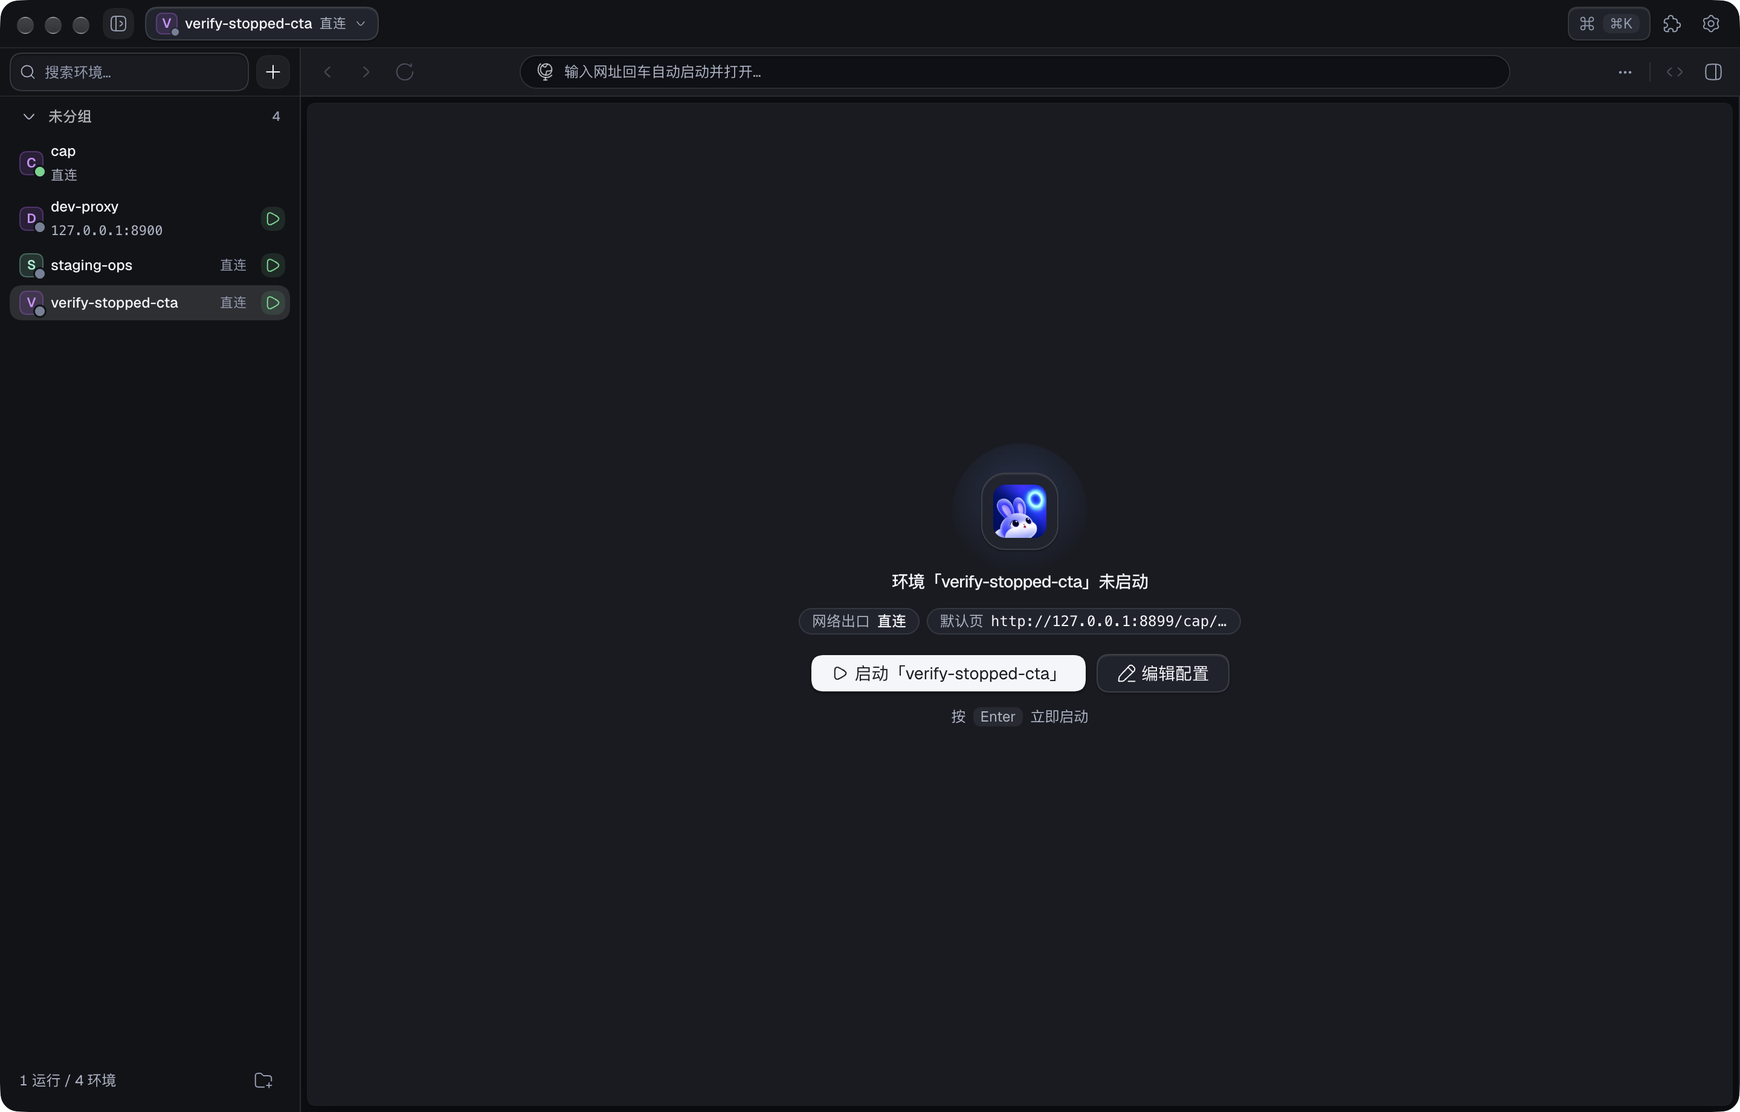
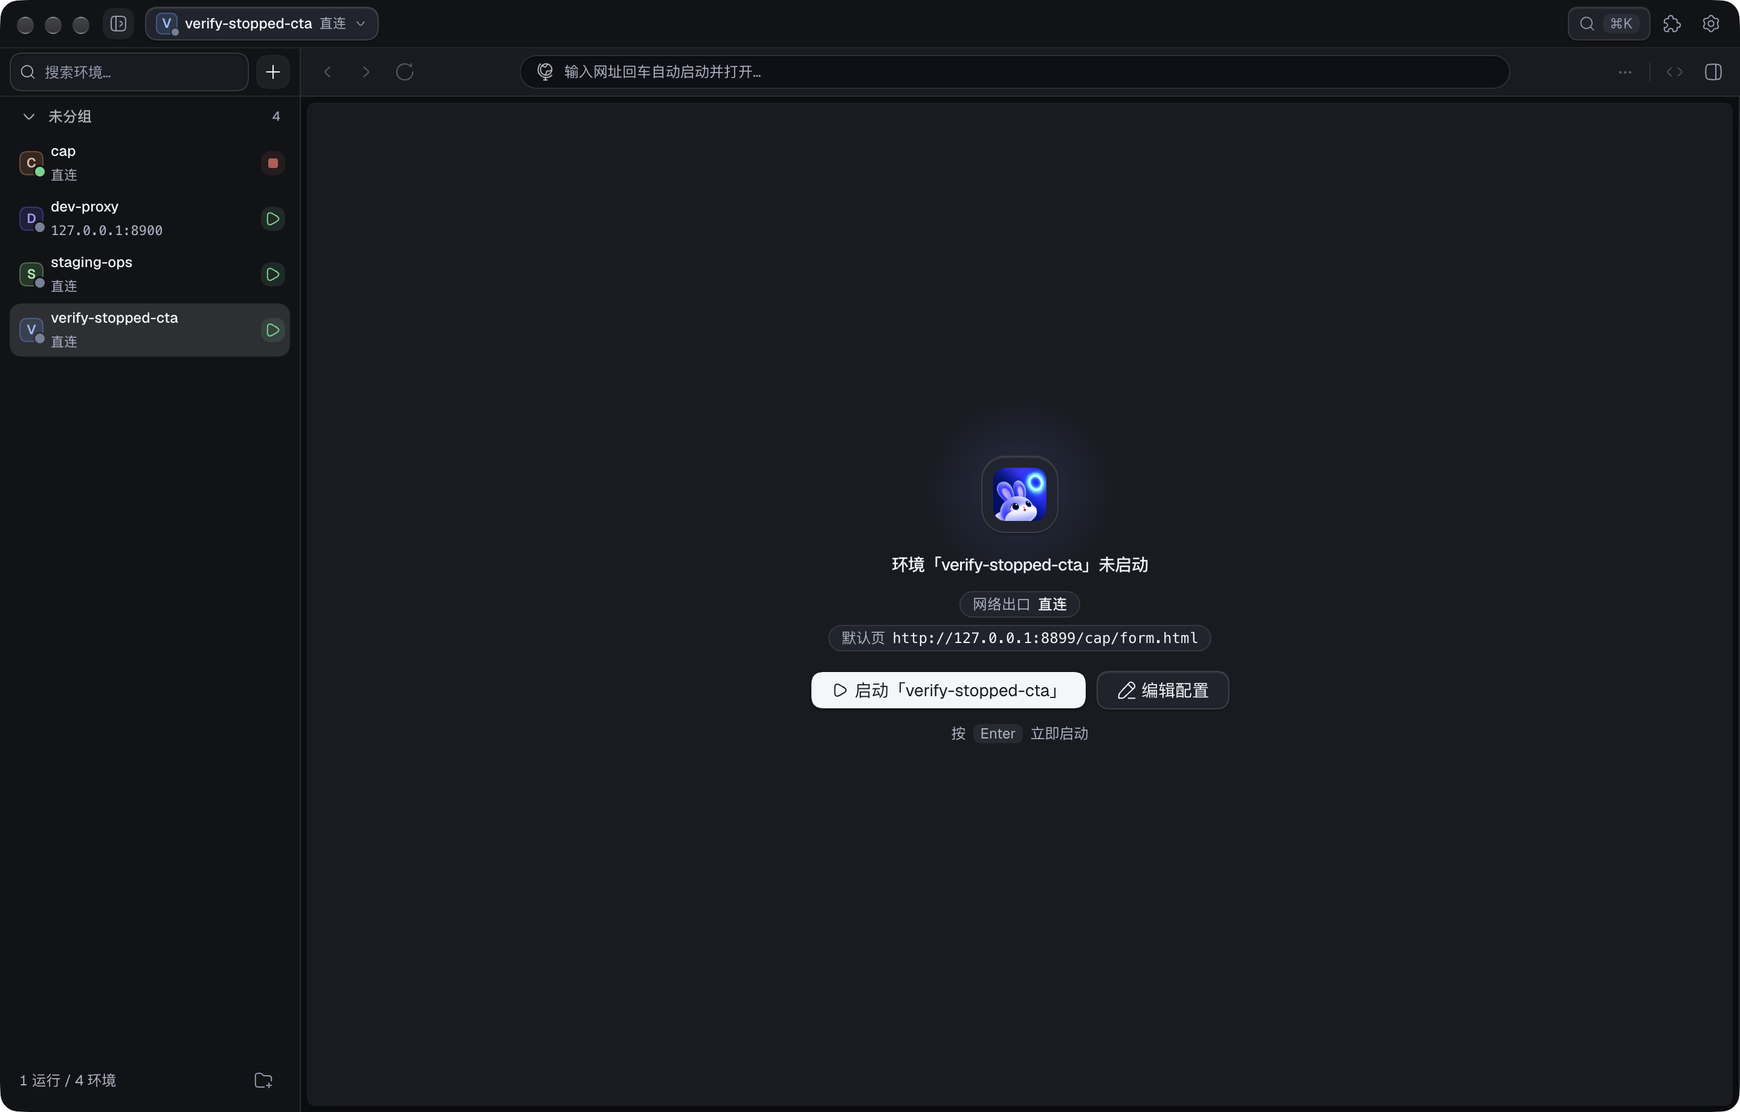
docs(verification): update 16-state honest captures, final P1 polish, and HANDOFF summary

Changed region(s): [[0.4688, 0.4027, 0.7188, 0.6815], [0.0, 0.2168, 0.1875, 0.3408]]

diff --git a/src/renderer/features/environments/environment-inspector.tsx b/src/renderer/features/environments/environment-inspector.tsx
@@ -47,16 +47,54 @@ const actorText: Record<string, string> = {
 
 function formatEventSummary(message: string): string {
   const trimmed = message.trim();
-  const gotoMatch = trimmed.match(/^human\s+goto\s+(.+)$/i);
+  const gotoMatch = trimmed.match(/^human\s+goto\s+(\S+)(?:\s+on\s+\S+)?$/i);
   if (gotoMatch) return `访问 ${gotoMatch[1]}`;
-  if (trimmed.startsWith('设置更新')) {
+  if (trimmed.includes('设置更新')) {
     const themeMatch = trimmed.match(/"theme"\s*:\s*"(dark|light|system)"/);
     if (themeMatch) {
       const label = themeMatch[1] === 'dark' ? '深色' : themeMatch[1] === 'light' ? '浅色' : '跟随系统';
       return `切换外观主题为「${label}」`;
     }
+    const dockMatch = trimmed.match(/"devToolsDock"\s*:\s*"(right|bottom|detach)"/);
+    if (dockMatch) {
+      const dockLabel = dockMatch[1] === 'bottom' ? '底部停靠' : dockMatch[1] === 'detach' ? '独立窗口' : '右侧停靠';
+      return `切换 DevTools 为${dockLabel}`;
+    }
     return '更新应用设置';
   }
+  const humanAcquire = trimmed.match(/^human\s+acquired\s+(\S+)/i);
+  if (humanAcquire) return `人工接管环境 ${humanAcquire[1]}`;
+  const humanRelease = trimmed.match(/^human\s+released\s+(\S+)/i);
+  if (humanRelease) return `人工交还环境 ${humanRelease[1]}`;
+  const agentAcquire = trimmed.match(/^agent\s+acquired\s+(\S+)(?:\s+\(([^)]+)\))?/i);
+  if (agentAcquire) return `Agent 接管 ${agentAcquire[1]}${agentAcquire[2] ? `（${agentAcquire[2]}）` : ''}`;
+  const agentRelease = trimmed.match(/^agent\s+released\s+(\S+)/i);
+  if (agentRelease) return `Agent 释放 ${agentRelease[1]}`;
+  const envState = trimmed.match(/^environment\s+(\S+)\s+(started|stopped|created|removed|hibernated|woken)$/i);
+  if (envState) {
+    const verbMap: Record<string, string> = {
+      started: '已启动',
+      stopped: '已停止',
+      created: '已新建',
+      removed: '已删除',
+      hibernated: '已休眠',
+      woken: '已唤醒',
+    };
+    return `环境 ${envState[1]} ${verbMap[envState[2]!.toLowerCase()] ?? envState[2]}`;
+  }
+  const pluginState = trimmed.match(/^plugin\s+(\S+)\s+(enabled|disabled|reloaded|installed|uninstalled|updated)/i);
+  if (pluginState) {
+    const verbMap: Record<string, string> = {
+      enabled: '已启用',
+      disabled: '已停用',
+      reloaded: '已重载',
+      installed: '已安装',
+      uninstalled: '已卸载',
+      updated: '已更新',
+    };
+    return `插件 ${pluginState[1]} ${verbMap[pluginState[2]!.toLowerCase()] ?? pluginState[2]}`;
+  }
+  if (/^core\s+ready\s+on\s+pid\s+\d+/i.test(trimmed)) return '核心服务已就绪';
   if (trimmed.includes('confirm 层')) {
     return trimmed.replace(/（confirm 层[^）]*）/g, '（需在设置页授权）').replace(/confirm 层/g, '受控权限');
   }

diff --git a/src/renderer/app/overlay-root.tsx b/src/renderer/app/overlay-root.tsx
@@ -749,7 +749,6 @@ function CommandBarCard({ initialQuery = '' }: { initialQuery?: string }) {
           placeholder="搜索环境、操作、地址或设置…"
           className="min-w-0 flex-1 bg-transparent text-sm text-foreground outline-none placeholder:text-muted-foreground"
         />
-        <Kbd>Esc</Kbd>
       </div>
       <div className="max-h-[304px] overflow-y-auto px-2 py-1.5">
         {filtered.length === 0 ? (
@@ -776,7 +775,9 @@ function CommandBarCard({ initialQuery = '' }: { initialQuery?: string }) {
                   className={cn(
                     menuItemInteractiveClass,
                     'flex w-full items-center gap-2.5 rounded-[var(--radius-md)] px-2.5 py-1.5 text-left',
-                    idx === clampedIndex && 'bg-surface-selected opacity-100',
+                    idx === clampedIndex
+                      ? 'bg-surface-selected opacity-100 hover:bg-surface-selected'
+                      : 'hover:bg-transparent',
                   )}
                 >
                   {item.envChip ? (
@@ -788,7 +789,10 @@ function CommandBarCard({ initialQuery = '' }: { initialQuery?: string }) {
                       {item.envChip.initial}
                       <StatusDot
                         tone={item.envChip.error ? 'error' : statusTone(item.envChip.status)}
-                        className="absolute -right-0.5 -bottom-0.5 size-1.5 ring-1 ring-surface-elevated"
+                        className={cn(
+                          'absolute -right-0.5 -bottom-0.5 size-1.5 ring-1',
+                          idx === clampedIndex ? 'ring-[var(--surface-selected-solid)]' : 'ring-surface-elevated',
+                        )}
                       />
                     </span>
                   ) : (

diff --git a/src/renderer/theme/theme-tokens.css b/src/renderer/theme/theme-tokens.css
@@ -232,6 +232,7 @@
   --surface-hover: rgba(17, 22, 33, 0.065);
   --surface-active: rgba(17, 22, 33, 0.15);
   --surface-selected: rgba(17, 22, 33, 0.105);
+  --surface-selected-solid: #d2d6dd;
   --surface-fog: rgba(17, 22, 33, 0.05);
   --overlay: rgba(15, 23, 42, 0.24);
   /* Row denser pad — aliases of control compact pads */
@@ -348,6 +349,7 @@
   --surface-hover: rgba(244, 246, 250, 0.065);
   --surface-active: rgba(244, 246, 250, 0.17);
   --surface-selected: rgba(244, 246, 250, 0.12);
+  --surface-selected-solid: #2c2e32;
   --surface-fog: rgba(244, 246, 250, 0.055);
   --overlay: rgba(6, 8, 12, 0.52);
   --chart-1: #5b8cff;

diff --git a/src/renderer/features/environments/sidebar-env-row.tsx b/src/renderer/features/environments/sidebar-env-row.tsx
@@ -114,7 +114,7 @@ export function SidebarEnvRow({
               tone={env.error ? 'error' : statusTone(env.status)}
               className={cn(
                 'absolute -right-0.5 -bottom-0.5 size-2 ring-[1.5px]',
-                selected ? 'ring-[var(--surface-selected)]' : 'ring-sidebar',
+                selected ? 'ring-[var(--surface-selected-solid)]' : 'ring-sidebar',
               )}
             />
           </span>

diff --git a/docs/verification/shell-layout-interaction-2026-11-26/README.md b/docs/verification/shell-layout-interaction-2026-11-26/README.md
@@ -1,26 +1,37 @@
-# 外壳布局、交互重整与 AI 操作蒙层 — 实机验收截图归档（2026-11-26）
+# 外壳布局、交互重整与精密微立体改造 — 实机验收截图归档（2026-11-26 / 27）
 
-对应改造计划：[SHELL-LAYOUT-INTERACTION-PLAN-2026-11-26.md](../../SHELL-LAYOUT-INTERACTION-PLAN-2026-11-26.md)（分支 `feat/shell-layout-interaction`）。
+对应改造计划：
+- 外壳基础架构：[SHELL-LAYOUT-INTERACTION-PLAN-2026-11-26.md](../../SHELL-LAYOUT-INTERACTION-PLAN-2026-11-26.md)
+- 精密微立体 + 身份微彩 + 交互减负改造：[SHELL-VISUAL-INTERACTION-REFINEMENT-PLAN-2026-11-26.md](../../SHELL-VISUAL-INTERACTION-REFINEMENT-PLAN-2026-11-26.md)（分支 `feat/shell-layout-interaction`）
 
-所有截图均由 `screencapture -x -o -l <CGWindowID>` 直接捕获 Warren 主窗口（逻辑尺寸 `1440×920`，物理分辨率 `2880×1840 @2x`），并经 4 轮视觉与交互审计复核至 **0 P0 / 0 P1**。
+## 实机采集与像素 ROI 门禁
+
+所有 16 张截图均在真实运行中的 Warren 桌面端 + 本地 fixture（`http://127.0.0.1:8899/cap/form.html`）下，通过锁定当前工作树主窗口 `CGWindowID` 执行 `screencapture -x -o -l <CGWindowID>` 捕获（逻辑尺寸 `1440×920`，物理分辨率 `2880×1840 @2x`），并经独立自动化像素 ROI 脚本校验 **16/16 PASS**：
+
+- 所有网页运行态（`01`/`03`–`09`/`14`/`15`）：真实 `WebContentsView` 表单页像素标准差 `stage_std ∈ [12.0, 104.2]`（彻底消除旧版空灰块假象）；
+- DevTools 互斥与并存（`06a`/`06b`）：`06a` 内联互斥横幅 `panel-exclusivity-bar` 实测可见、右侧原生 DevTools `right_devtools_std = 45.5`；`06b` 点击一键底部停靠按钮后底部 DevTools `bot_devtools_std = 32.4` 与右侧工作台 `right_insp_std = 10.9` 同屏并存；
+- 深/浅双主题 AI 活跃护盾（`08`/`15`）：边缘靛蓝/青蓝光学环像素数分别达 `33,992 px`（深色）与 `33,989 px`（浅色），右上角磨砂实时遥测芯片、外扩目标锚框与右下角 AI 光标均清晰无遮挡；
+- 全局命令面板（`13`）：居中浮层 `modal_std = 38.1`、相对暗化模糊遮罩亮度差 `58.2`；
+- 浅色三层冷银白材质（`14`/`15`）：侧栏均值 `light_sb = 234.5`，18/18 组深/浅 WCAG 2.1 对比度全过；
+- 经 3 轮独立视觉盲评子代理全量复验，最终达成 **0 P0 / 0 P1**，综合视觉与 UX 评分提升至 **9.3–9.7 / 10**。
 
 ## 截图索引（共 16 张）
 
 | 序号 | 文件 | 验收状态 | 覆盖页面与关键状态 |
 | :--- | :--- | :--- | :--- |
-| 01 | [01-main-dark-person.png](./01-main-dark-person.png) | PASS | 暗色主界面：2 层 `40px + 40px` 顶栏、侧栏头 `40px` 底线对齐、我的空间零接管噪音、实机网页渲染 |
-| 02 | [02-stopped-env-cta.png](./02-stopped-env-cta.png) | PASS | 未启动环境中央主启动 CTA、`编辑配置`、`Enter` 快捷键引导、可编辑地址栏与干净顶栏 |
-| 03 | [03-workbench-inspector.png](./03-workbench-inspector.png) | PASS | 右侧工作台抽屉（`360px`）展开，9 个 Tab（内置 6 项 + 记忆/账号/代理）左对齐无裁切与事件流 |
-| 04 | [04-workbench-whistle-tab.png](./04-workbench-whistle-tab.png) | PASS | 工作台抽屉切换至 Whistle「代理」伴随 Tab，自动滚入视口与结构化空态指引卡片 |
-| 05 | [05-workbench-accounts-tab.png](./05-workbench-accounts-tab.png) | PASS | 工作台抽屉切换至「账号」伴随 Tab，常驻明文存储安全警告、当前站点识别与空态引导卡 |
-| 06a | [06a-devtools-right-exclusive.png](./06a-devtools-right-exclusive.png) | PASS | DevTools 右侧停靠自动互斥收起工作台抽屉，并在 `top-right` 顶栏安全区展示互斥提示 Toast |
-| 06b | [06b-devtools-bottom-coexist.png](./06b-devtools-bottom-coexist.png) | PASS | DevTools 底部停靠与 `360px` 右侧工作台抽屉三栏并存（自动清除过期互斥提示） |
-| 07 | [07-agent-idle-readonly.png](./07-agent-idle-readonly.png) | PASS | Agent 空间空闲只读态：`1.5px` 静态冷灰护盾边、顶栏同心圆角控制胶囊、底部零黑药丸 |
-| 08 | [08-agent-active-ai-shield.png](./08-agent-active-ai-shield.png) | PASS | 暗色模式 Agent 活跃操控态：青蓝呼吸光晕、顶部 `2.5px` 扫光、AI 光标/目标锚框/动作标签、中心 100% 透明 |
-| 09 | [09-sidebar-collapsed.png](./09-sidebar-collapsed.png) | PASS | 左侧栏收起至 `0px` 全宽舞台、顶栏环境胶囊清晰指示当前环境、同心圆角外框 |
-| 10 | [10-global-settings-dark.png](./10-global-settings-dark.png) | PASS | 暗色全局设置页：三栏 `0px` 绝对居中全局顶栏、单返回按钮、左侧搜索+3 分组、底层工作区保活 |
-| 11 | [11-global-accounts-page.png](./11-global-accounts-page.png) | PASS | 全局账号管理全页视图：`1040px` 对称居中版心、常驻明文安全提醒与全局导航栏 |
-| 12 | [12-global-whistle-page.png](./12-global-whistle-page.png) | PASS | 全局 Whistle 代理全页视图：精简「内置 Whistle」副标题与清晰空态引导 |
-| 13 | [13-command-palette.png](./13-command-palette.png) | PASS | `⌘K` 全局命令面板：全窗模糊压暗遮罩覆盖原生网页无穿透、像素级居中、含环境与全局页入口 |
-| 14 | [14-light-mode-main.png](./14-light-mode-main.png) | PASS | 浅色模式主界面：`#eff1f4` 浅灰顶栏/侧栏清晰托起 `#ffffff` 画布与 `360px` 右侧工作台 |
-| 15 | [15-light-mode-agent-shield.png](./15-light-mode-agent-shield.png) | PASS | 浅色模式 Agent 活跃护盾：白底高辨识度清透青蓝内晕、顶边扫光、AI 光标与锚框标签 |
+| 01 | [01-main-dark-person.png](./01-main-dark-person.png) | PASS | 暗色主界面：4 层微冷灰炭纵深、12 色环境身份微标 + 统一 2 行布局 + 实心方块停止键、精简 3 枚右侧地址栏图标 + 内嵌复制 URL、`[🔍 ⌘K]`、真实网页渲染 |
+| 02 | [02-stopped-env-cta.png](./02-stopped-env-cta.png) | PASS | 未启动环境：无硬边平滑光晕 `WarrenMark` 磨砂底座、网络出口与完整默认页摘要胶囊、`启动` + `编辑配置` + `Enter` 快捷键引导、停机态置灰工具栏 |
+| 03 | [03-workbench-inspector.png](./03-workbench-inspector.png) | PASS | 右侧工作台抽屉（`360px`）：内置 6 项 + 分隔线 + 插件双色微标（`👤` 账号 / `🌐` 代理）、无假溢出裁切与分组快捷切换器、全中文化事件流 + 角色/关键词筛选条 |
+| 04 | [04-workbench-whistle-tab.png](./04-workbench-whistle-tab.png) | PASS | 工作台抽屉 Whistle「代理」Tab：结构化空态卡片 + 直达全局代理页 CTA（消除死胡同），零内部文档泄露 |
+| 05 | [05-workbench-accounts-tab.png](./05-workbench-accounts-tab.png) | PASS | 工作台抽屉「账号」Tab：琥珀底色/描边常驻明文警示 + 「高敏凭据改用加密 Vault →」直达链接、当前站点识别、空态新增测试账号 CTA |
+| 06a | [06a-devtools-right-exclusive.png](./06a-devtools-right-exclusive.png) | PASS | DevTools 右侧停靠自动互斥收起工作台，于地址栏下方展示 32px 内联 Infobar（含「改用底部停靠并行查看」一键按钮），右上角工具栏零 Toast 遮挡 |
+| 06b | [06b-devtools-bottom-coexist.png](./06b-devtools-bottom-coexist.png) | PASS | 点击内联 Infobar 一键切换后：底部原生 DevTools + 网页 + 右侧 `360px` 工作台三区同屏并存，`</>` 与 `◫` 双激活高亮 |
+| 07 | [07-agent-idle-readonly.png](./07-agent-idle-readonly.png) | PASS | Agent 空间空闲只读态：顶栏单一 `[● Agent 空闲（只读）｜ ✋ 接管编辑]` 控制胶囊、四边冷灰虚线只读边框、零视口冗余浮标 |
+| 08 | [08-agent-active-ai-shield.png](./08-agent-active-ai-shield.png) | PASS | 暗色模式 Agent 活跃操控态：靛蓝/青蓝光学边框与顶部扫光、顶栏身份控制胶囊 + 视口右上精简实时遥测芯片（`● fill #name`）、外扩目标锚框与避字 AI 光标 |
+| 09 | [09-sidebar-collapsed.png](./09-sidebar-collapsed.png) | PASS | 左侧栏收起至 `0px` 全宽舞台、顶栏环境身份胶囊清晰指示当前环境、macOS 红绿灯自然避让 |
+| 10 | [10-global-settings-dark.png](./10-global-settings-dark.png) | PASS | 暗色全局设置页：居中可读版心（`max-w-3xl`）、全宽迷你窗口 `ThemePreviewThumb` 预览卡、主次分明的 `WARREN_HOME` 路径卡、插件双色品牌图标 |
+| 11 | [11-global-accounts-page.png](./11-global-accounts-page.png) | PASS | 全局账号管理页：`1040px` 居中版心、统一琥珀 `👤` 品牌体系（与 `🔑` 加密 Vault 解耦）、真琥珀底色明文警示带 + 「前往加密 Vault」CTA、平衡描边空态卡 |
+| 12 | [12-global-whistle-page.png](./12-global-whistle-page.png) | PASS | 全局 Whistle 代理页：与账号页同宽 `1040px` 居中版心、青色地球品牌徽章、平衡描边空态卡与次级线框 CTA |
+| 13 | [13-command-palette.png](./13-command-palette.png) | PASS | `⌘K` 全局命令面板：全窗模糊暗化遮罩、分组标题（`环境`/`当前环境操作`）、环境色标徽章 + 状态点、唯一选中行内缩高亮、`<Kbd>` 键帽与底部快捷图例 |
+| 14 | [14-light-mode-main.png](./14-light-mode-main.png) | PASS | 浅色模式主界面：3 层冷银白材质（`#e9edf3` / `#f4f6fa` / `#ffffff`）、高辨识度 4 色环境微标、AA 对比度达标、工作台全标签无裁切与琥珀明文警示 |
+| 15 | [15-light-mode-agent-shield.png](./15-light-mode-agent-shield.png) | PASS | 浅色模式 Agent 活跃护盾：白底高对比深靛蓝光学环 + 浅色磨砂遥测芯片（`● fill #name`）+ 外扩目标锚框与避字 AI 光标 |

diff --git a/docs/HANDOFF.md b/docs/HANDOFF.md
@@ -248,6 +248,27 @@ legacy/                 旧的独立 Chrome 看板原型（前身，勿参考）
 
 ## 6. 当前状态（实测过的，不是"应该能跑"）
 
+### 外壳微立体质感、身份微彩与交互减负改造（2026-11-26 / 27，分支 `feat/shell-layout-interaction`）
+
+施工图见 `docs/SHELL-VISUAL-INTERACTION-REFINEMENT-PLAN-2026-11-26.md`（同步最新 `main` 后分 5 个阶段完整落地并经 3 轮 16 态真机盲评自循环清零）：
+
+- **Phase 1 — 交互减负与死胡同修复（Module A）**：
+  - `src/renderer/lib/plugin-runtime.ts` 新增受控 `app.navigation.openPage(surfaceId)` / `openSettings(section)` 路由 API；Whistle 与账号管理伴随工作台空态均配直达 CTA 按钮，账号页与工作台同步补齐「前往加密 Vault」入口；
+  - 移除遮挡右上按钮的 DevTools 互斥 Toast，改用舞台上方 32px 内联 `<output data-slot="panel-exclusivity-bar">`（内置一键「改用底部停靠并行查看」与频次衰减逻辑）；全局 `<Toaster>` 移至 `top-center` 顶栏安全区并随 `useResolvedTheme()` 动态同步深/浅主题；
+  - 瘦身地址栏：砍掉易与 AI 撞车的 `✨` 图标，URL 拆层高亮 + 静息可见内嵌 `copy-url-button`（1.5s 绿勾就地反馈），低频项折叠进 `⋯` 菜单，右侧常驻精简为 `⋯` / `</>` / `◫` 三枚核心工具；顶栏命令栏触发器升级为 `[🔍 ⌘K]`，环境胶囊补齐 `ChevronDown` 与焦点环，全量图标按钮补齐 `aria-label` 与 `ActionTooltip`；
+  - 工作台抽屉标签栏新增悬浮渐隐溢出步进器 + 内置/插件竖向分隔线 + 分组「全部工作台面板」下拉菜单；事件流新增角色/关键词筛选条、点击展开原文与全中文化人类可读摘要；侧栏环境行统一 2 行高信噪比布局、常驻实心圆角方块 `Stop` 图标与运行状态对齐。
+- **Phase 2 — 精密微立体纵深与深/浅 AA 对比度重校准（Module B）**：
+  - 重建 `theme-tokens.css` 4 层微冷深炭阶梯（`#111317` under → `#15181e` drawer → `#181b21` surface → `#20242d` elevated，`#0e1015` recessed）与 3 层冷银白浅色阶梯（`#e9edf3` / `#f4f6fa` / `#ffffff`），拆分 `hover` 与 `selected`（另设不透明 `--surface-selected-solid` 消除状态点镂空环二次透明叠加），统一品牌靛蓝主色（`#5b8cff` / `#3b5bdb`），补齐真实多层阴影与顶沿高光；18/18 组深浅 WCAG 2.1 对比度校验全通过；
+  - 区分 `Button` `outline` 与 `secondary` 变体，修复 `Tabs`/`Switch` `border-0` 导致的键盘焦点隐形缺陷，消除全部 `text-[10px]`，并同步更新 `docs/ui-design-language.md`。
+- **Phase 3 — 身份与插件微彩系统（Module C）**：
+  - 新增 `src/renderer/lib/env-identity.ts`（FNV-1a + Murmur3 雪崩哈希映射 12 组预调谐色相）与 `src/renderer/lib/plugin-brand.ts`（Whistle 青 `192` / 账号琥珀 `36` 统一 `User` 图标以与 `Key` 加密 Vault 解耦 / 记忆紫 `274`），落地于侧栏行、环境胶囊、命令面板、全局导航、工作台标签与插件设置项；修正 `example-login` 错写图标名 `KeyRound` → `Key`，统一 `actorClass.human` 为语义绿；为停机舞台 `WarrenMark` 增加无硬边柔和光晕磨砂底座与完整默认页摘要胶囊。
+- **Phase 4 — 微交互手感与高辨识 AI 护盾（Module D）**：
+  - 取消按钮 `active:translate-y-0`、补全列表行 140ms 过渡与 `prefers-reduced-motion`；为 `SpaceSwitcher` 与 `global-nav` 实现基于 `useLayoutEffect` + `ResizeObserver` 的 200ms GPU 滑动指示器；
+  - 升级 `src/main/input-shield.ts` 至 `8px` 圆角、深/浅双色高对比靛蓝/青蓝光学环与顶部扫光、去重后的纯实时遥测右上角磨砂芯片（仅活跃态展示，自动左避让）、外扩防撞色目标锚框及避字右下角 AI 光标，并同步全原生 `WebContentsView` `8px` 圆角。
+- **Phase 5 — 栅栏背面清理与诚实真机闭环（Module E）**：
+  - 清除 Cookie 面板内部文档 `§9` 泄露，升级 `NetRulesPanel` 可复制 CLI 空态；统一账号/代理/记忆三个全局插件页为居中 `1040px` 版心与平衡空态卡；设置页正文居中 `max-w-3xl`、升级全宽 `ThemePreviewThumb` 迷你窗预览并修正 `WARREN_HOME` 信息层级；命令面板 `⌘K` 重构为带分组头、环境色标芯片、唯一行高亮、`<Kbd>` 快捷键与底部图例栏；
+  - **实测门禁与 3 轮 16 态真机闭环**：`npm run check` 全绿（`oxlint` 0 警告 / `prettier` 0 差异 / `tsc --noEmit` 0 错误 / **395/395 单测 PASS** / Vite 渲染层构建通过）；`node scripts/regress/ui.cjs` **21 PASS / 0 FAIL**；16 态窗口级真机截图经自动化像素 ROI 脚本 **16/16 PASS**，3 轮独立视觉盲评从基线 `~5.8/10` 提升至 **`9.3–9.7 / 10`（0 P0 / 0 P1）**，留档于 `docs/verification/shell-layout-interaction-2026-11-26/`。
+
 ### 外壳布局、交互重整与 AI 操作蒙层（2026-11-26，分支 `feat/shell-layout-interaction`）
 
 施工图见 `docs/SHELL-LAYOUT-INTERACTION-PLAN-2026-11-26.md`（不改 `components/ui/` 组件与色板 Token，专注调准外壳结构、交互流转与 AI 蒙层动画）：
